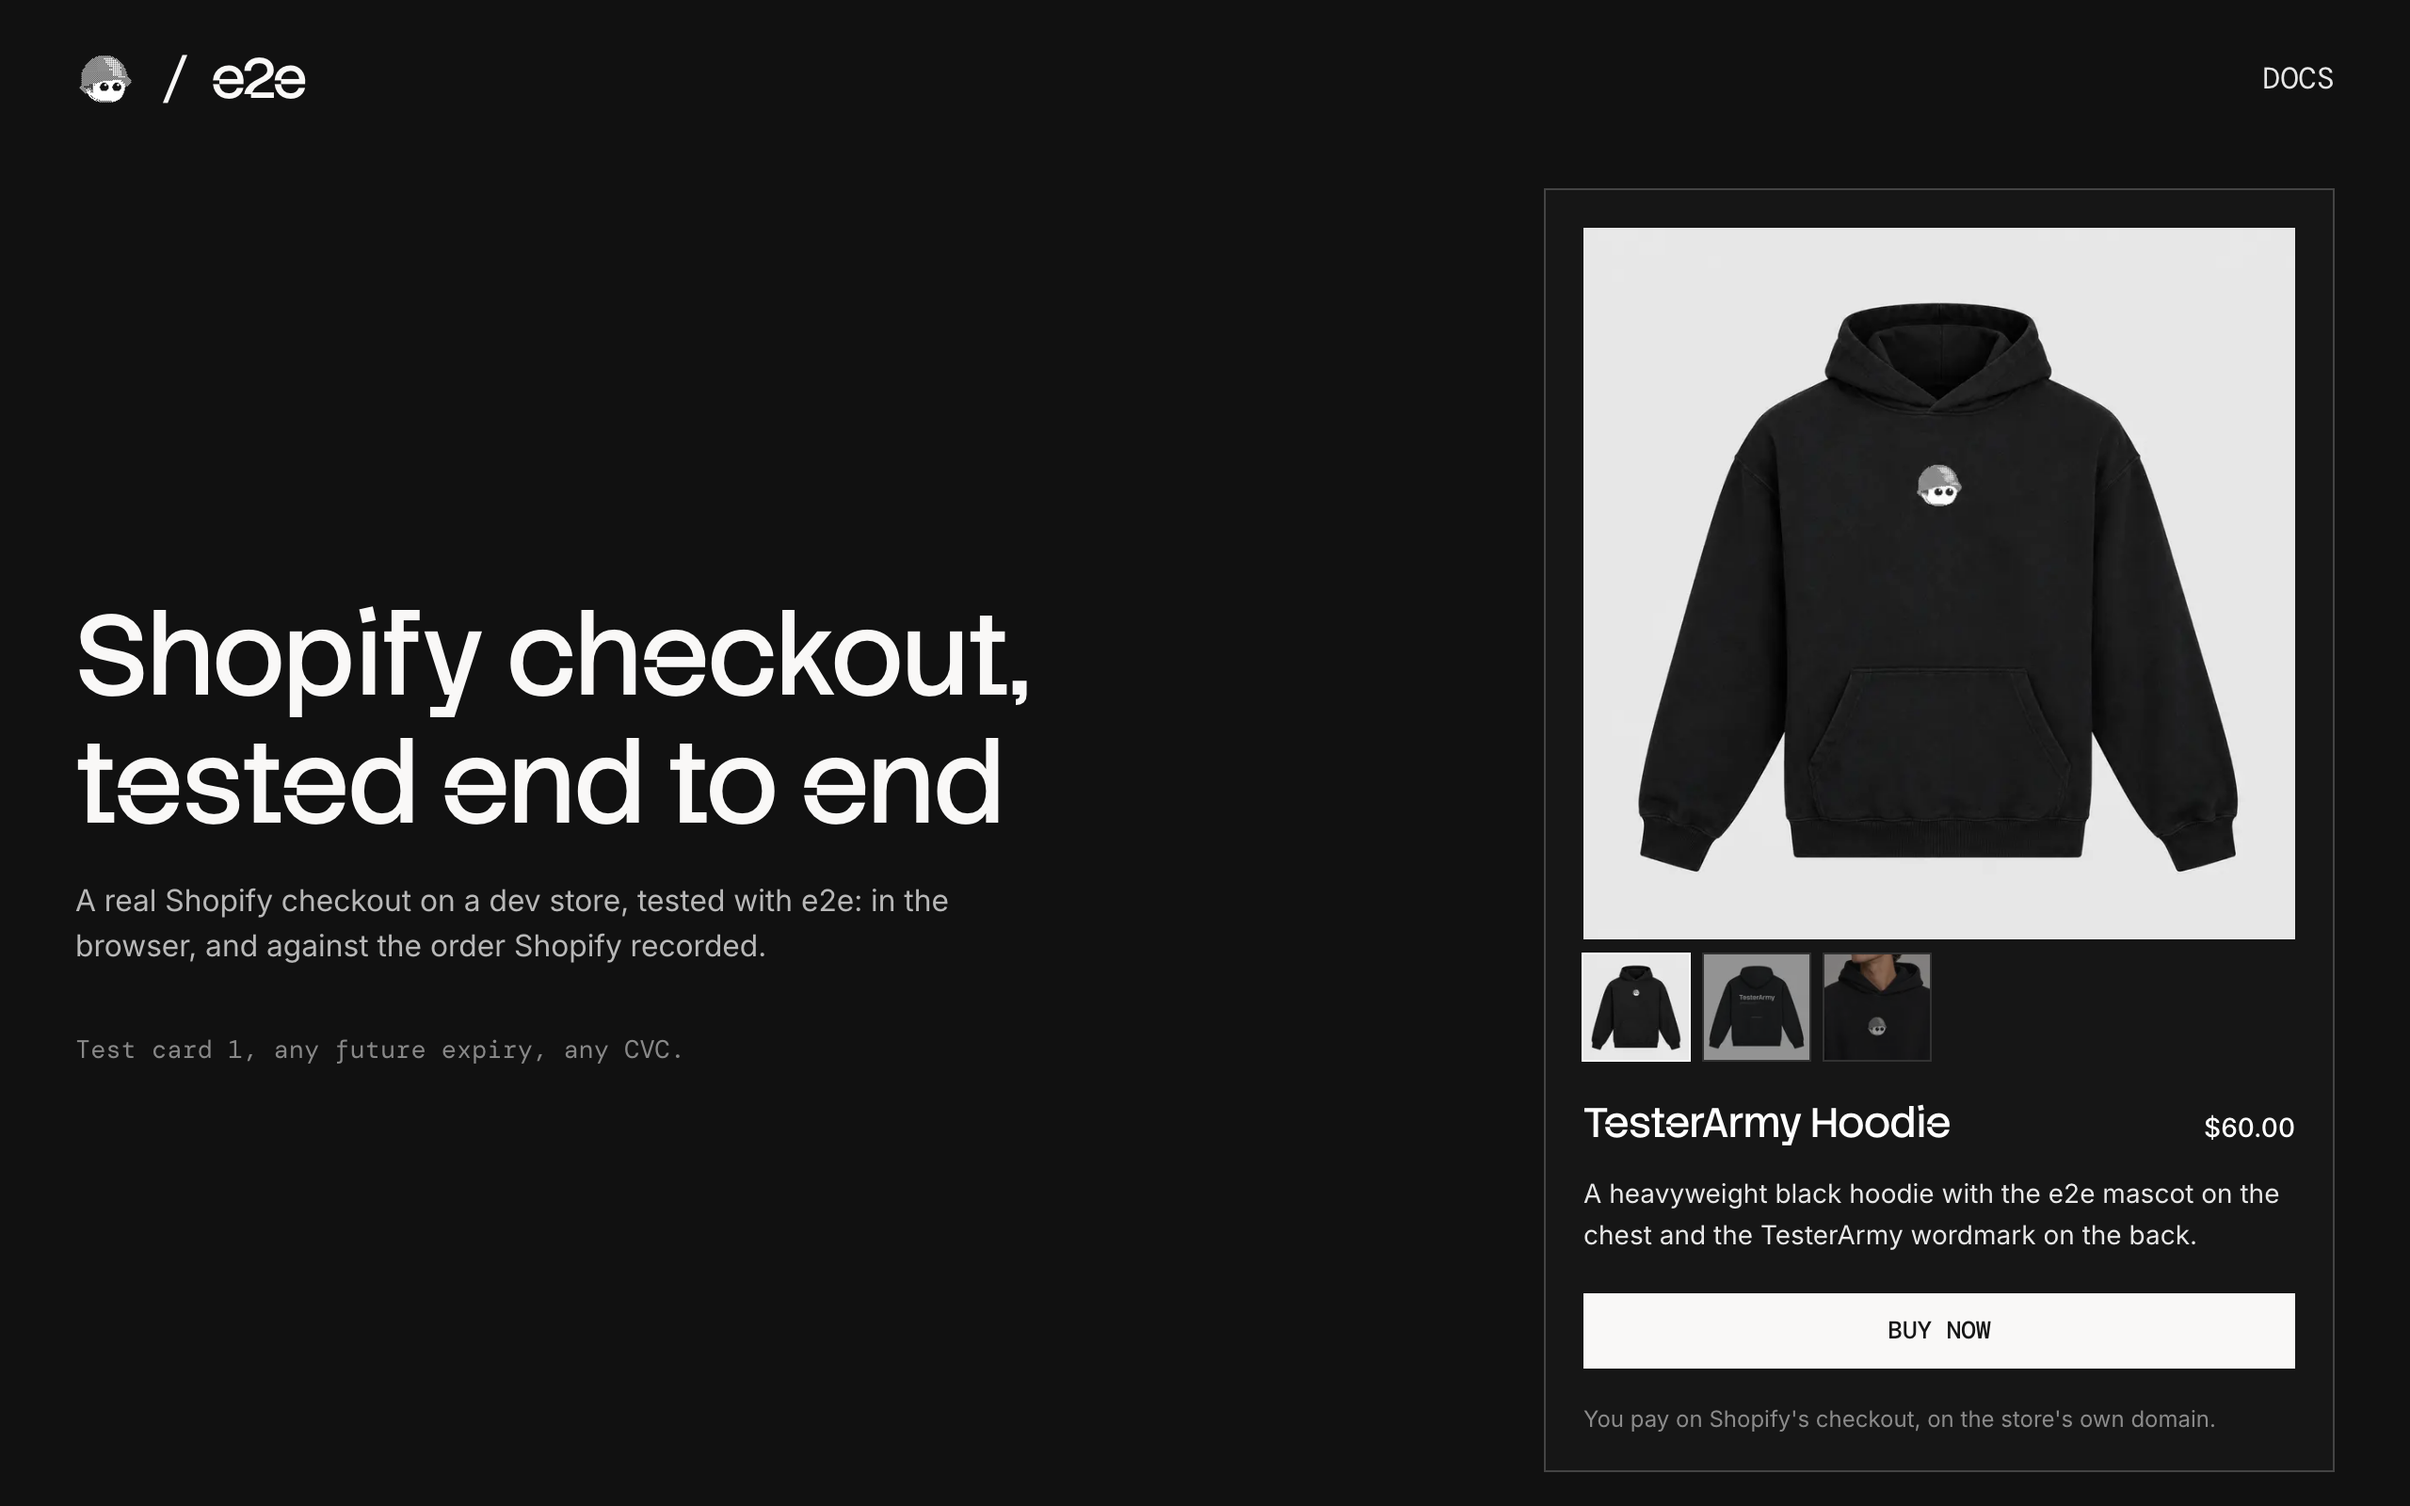
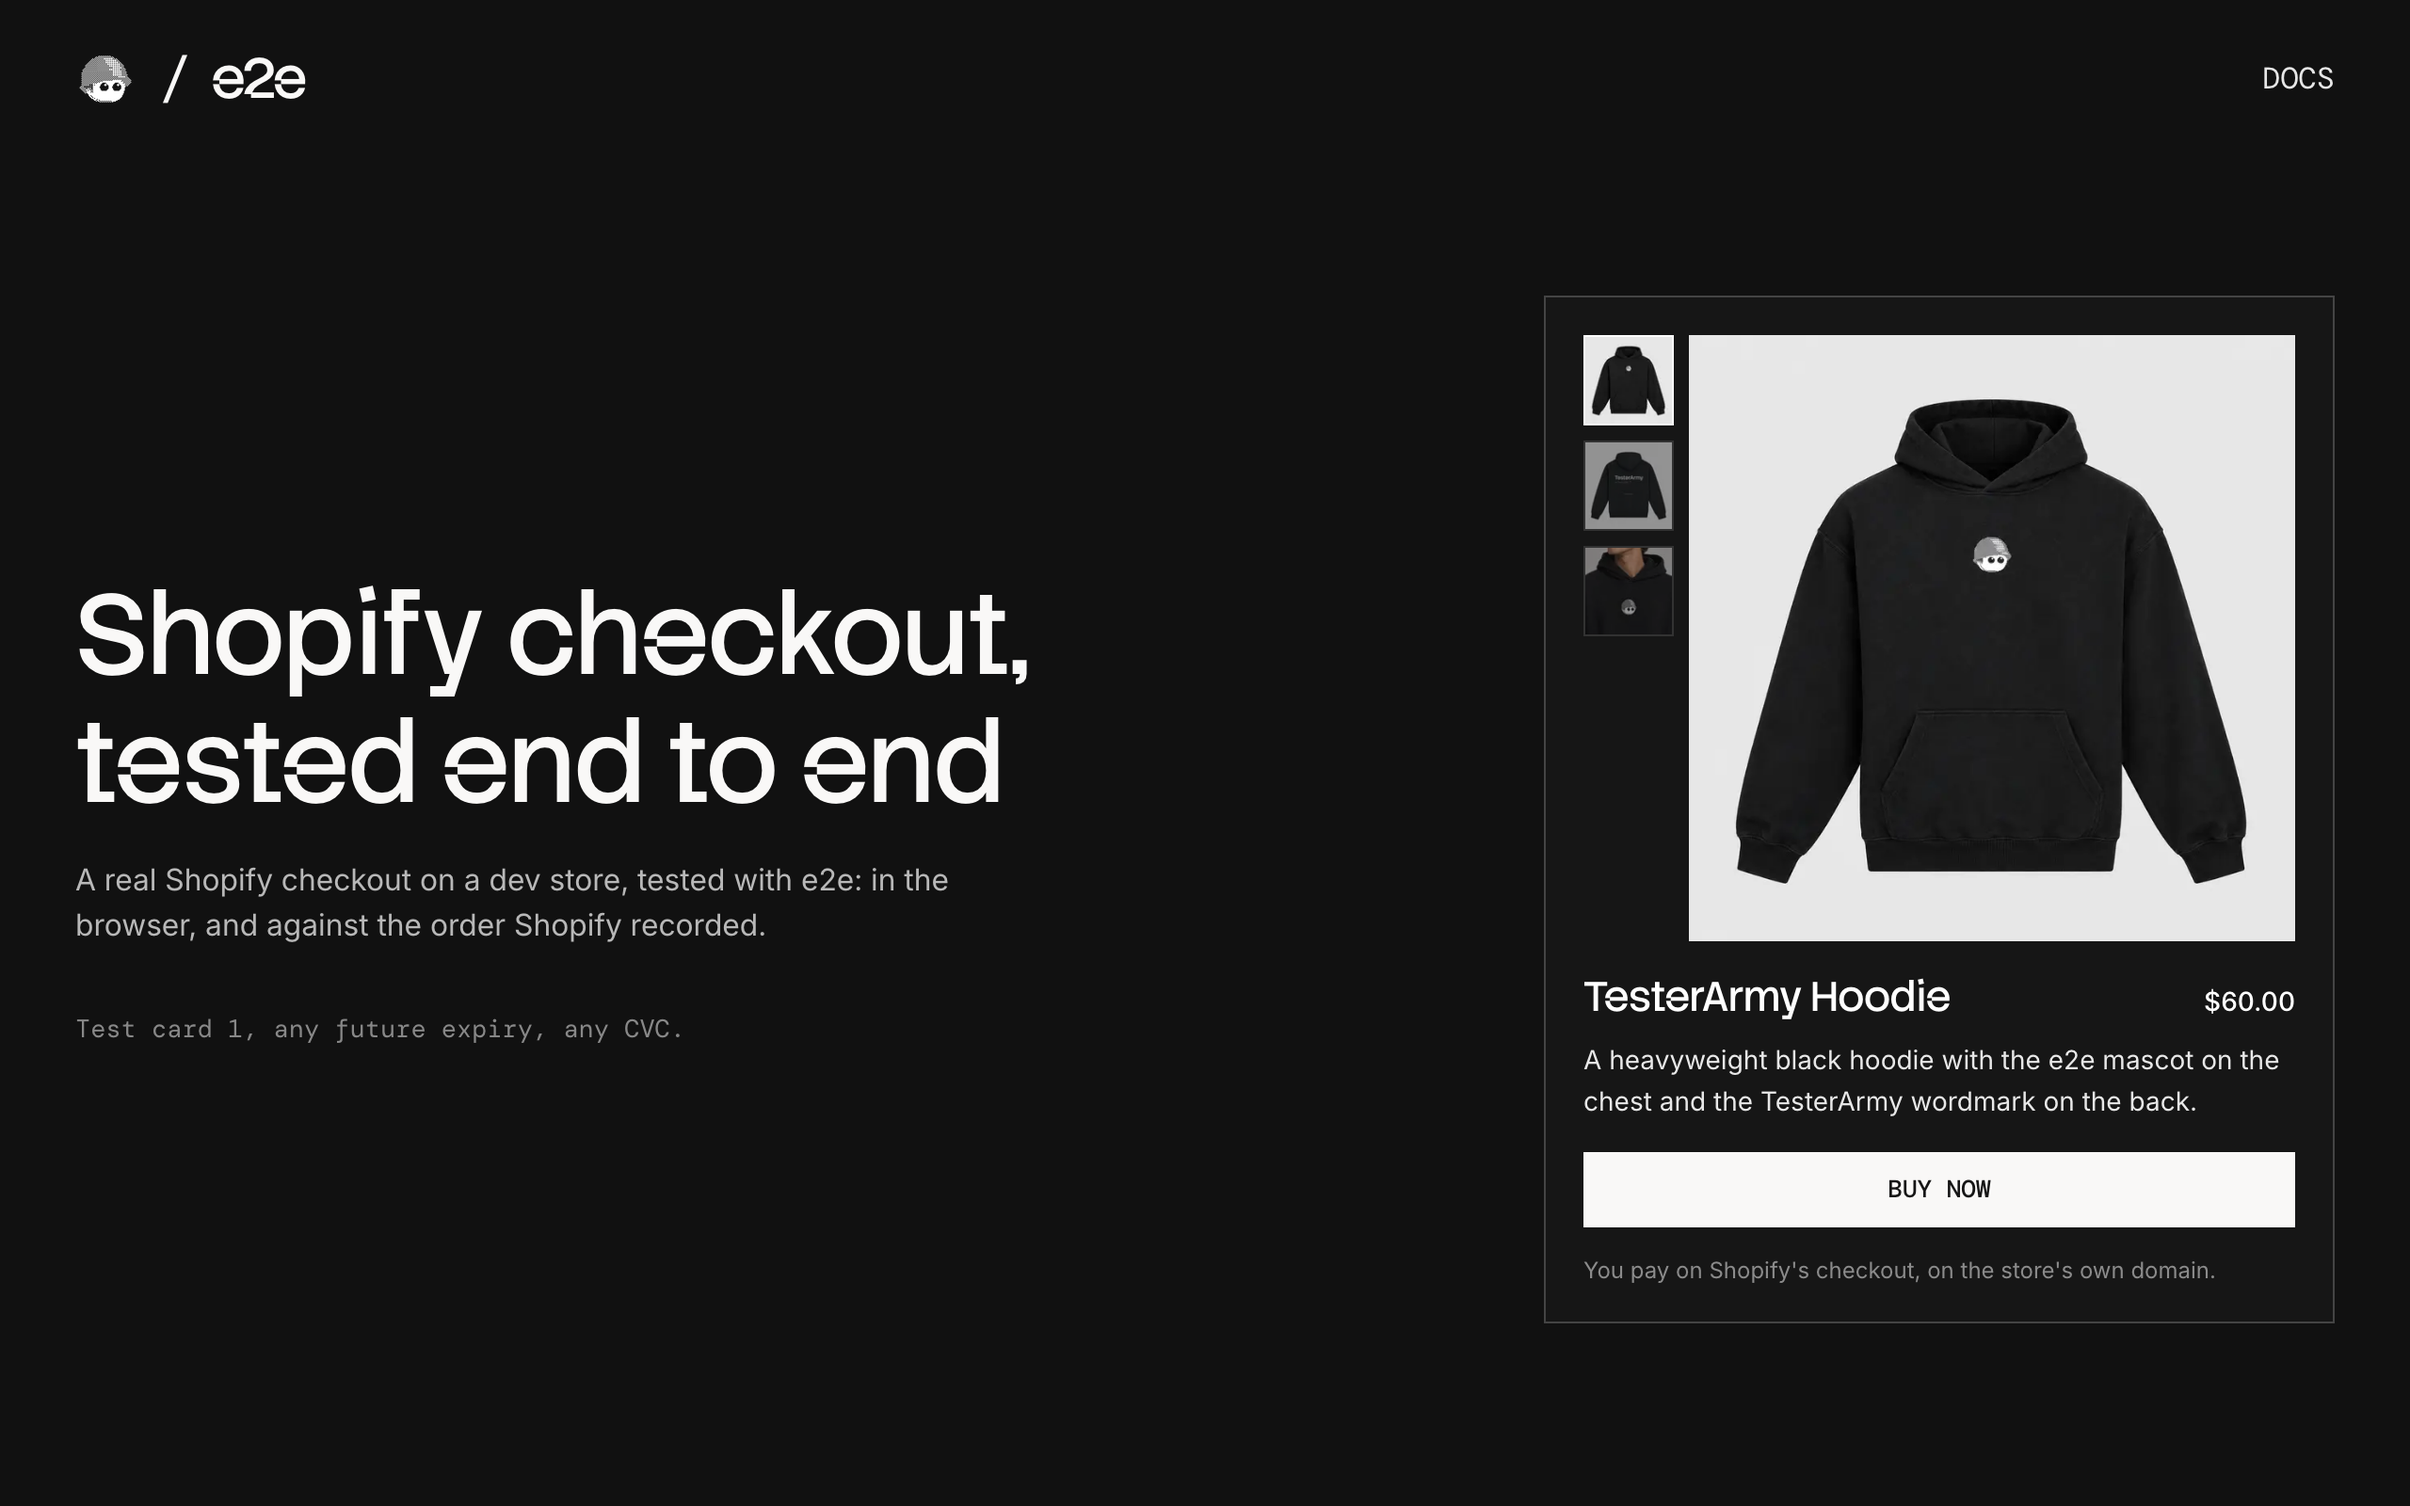
Make the product card compact

diff --git a/components/product-gallery.tsx b/components/product-gallery.tsx
@@ -14,42 +14,47 @@ export function ProductGallery({ images }: { images: ProductImage[] }) {
   const image = images[selected];
 
   return (
-    <div className="flex flex-col gap-2">
+    <div className={clsx("grid gap-2", images.length > 1 && "grid-cols-[3rem_minmax(0,1fr)]")}>
+      {images.length > 1 && (
+        // As tall as the photo; thumbnails that don't fit scroll. 4px of room keeps the focus outline unclipped.
+        <div className="relative">
+          <div className="absolute -inset-1 flex flex-col gap-2 overflow-y-auto p-1">
+            {images.map((thumbnail, index) => (
+              <button
+                key={thumbnail.url}
+                type="button"
+                aria-label={thumbnail.altText ?? `Photo ${index + 1}`}
+                aria-pressed={index === selected}
+                onClick={() => setSelected(index)}
+                className={clsx(
+                  "size-12 shrink-0 border focus-visible:opacity-100 focus-visible:outline-1 focus-visible:outline-offset-2 focus-visible:outline-e2e-white-60",
+                  index === selected
+                    ? "border-e2e-text-bright"
+                    : "border-e2e-hairline-strong opacity-60 hover:opacity-100",
+                )}
+              >
+                <Image
+                  src={thumbnail.url}
+                  alt=""
+                  width={thumbnail.width}
+                  height={thumbnail.height}
+                  sizes="48px"
+                  className={clsx("size-full object-cover", PHOTO_BACKGROUND)}
+                />
+              </button>
+            ))}
+          </div>
+        </div>
+      )}
       <Image
         src={image.url}
         alt={image.altText ?? ""}
         width={image.width}
         height={image.height}
-        sizes="(min-width: 1024px) 380px, 100vw"
+        sizes="(min-width: 1024px) 330px, 100vw"
         preload
         className={clsx("aspect-square w-full object-cover", PHOTO_BACKGROUND)}
       />
-      {images.length > 1 && (
-        <div className="flex flex-wrap gap-2">
-          {images.map((thumbnail, index) => (
-            <button
-              key={thumbnail.url}
-              type="button"
-              aria-label={thumbnail.altText ?? `Photo ${index + 1}`}
-              aria-pressed={index === selected}
-              onClick={() => setSelected(index)}
-              className={clsx(
-                "size-14 ring-1 focus-visible:outline-1 focus-visible:outline-offset-2 focus-visible:outline-e2e-white-60",
-                index === selected ? "ring-e2e-text-bright" : "opacity-60 ring-e2e-hairline-strong hover:opacity-100",
-              )}
-            >
-              <Image
-                src={thumbnail.url}
-                alt=""
-                width={thumbnail.width}
-                height={thumbnail.height}
-                sizes="56px"
-                className={clsx("size-full object-cover", PHOTO_BACKGROUND)}
-              />
-            </button>
-          ))}
-        </div>
-      )}
     </div>
   );
 }

diff --git a/app/page.tsx b/app/page.tsx
@@ -90,7 +90,7 @@ function Card({ children }: { children: ReactNode }) {
   return (
     <section
       aria-labelledby="product-heading"
-      className="flex flex-col gap-5 border border-e2e-hairline-strong bg-e2e-panel p-5"
+      className="flex flex-col gap-4 border border-e2e-hairline-strong bg-e2e-panel p-5"
     >
       {children}
     </section>
